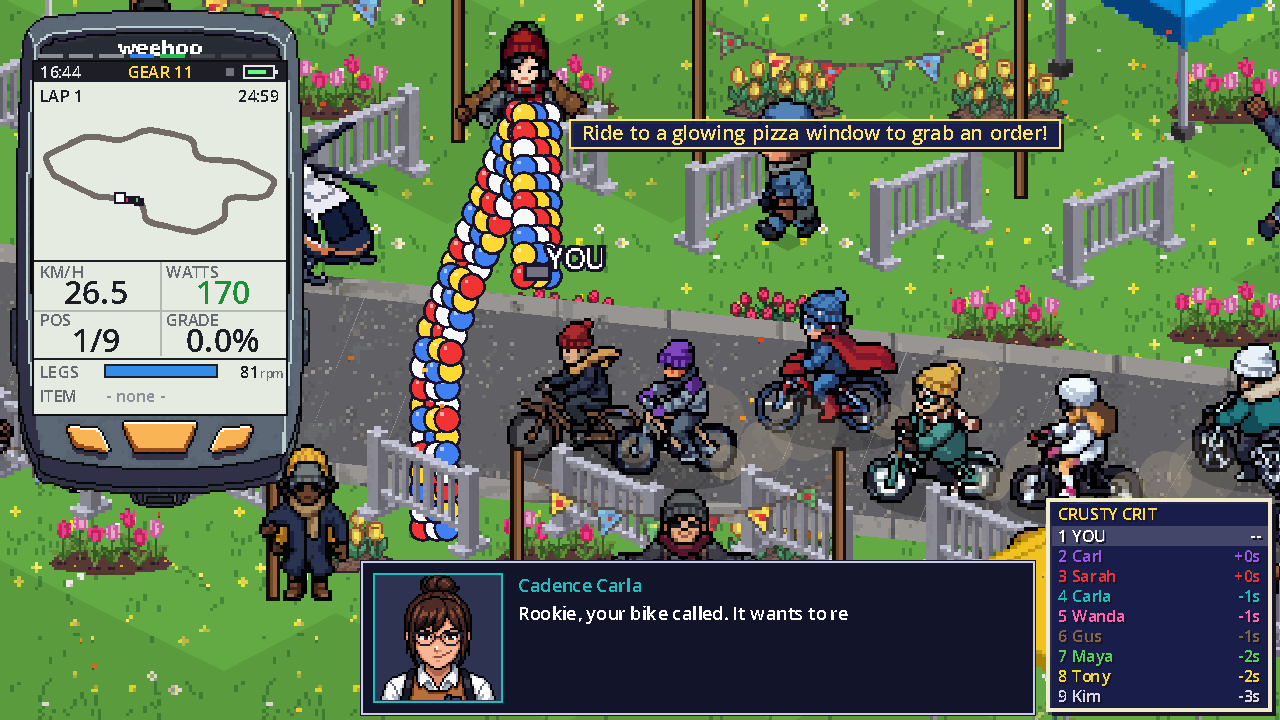
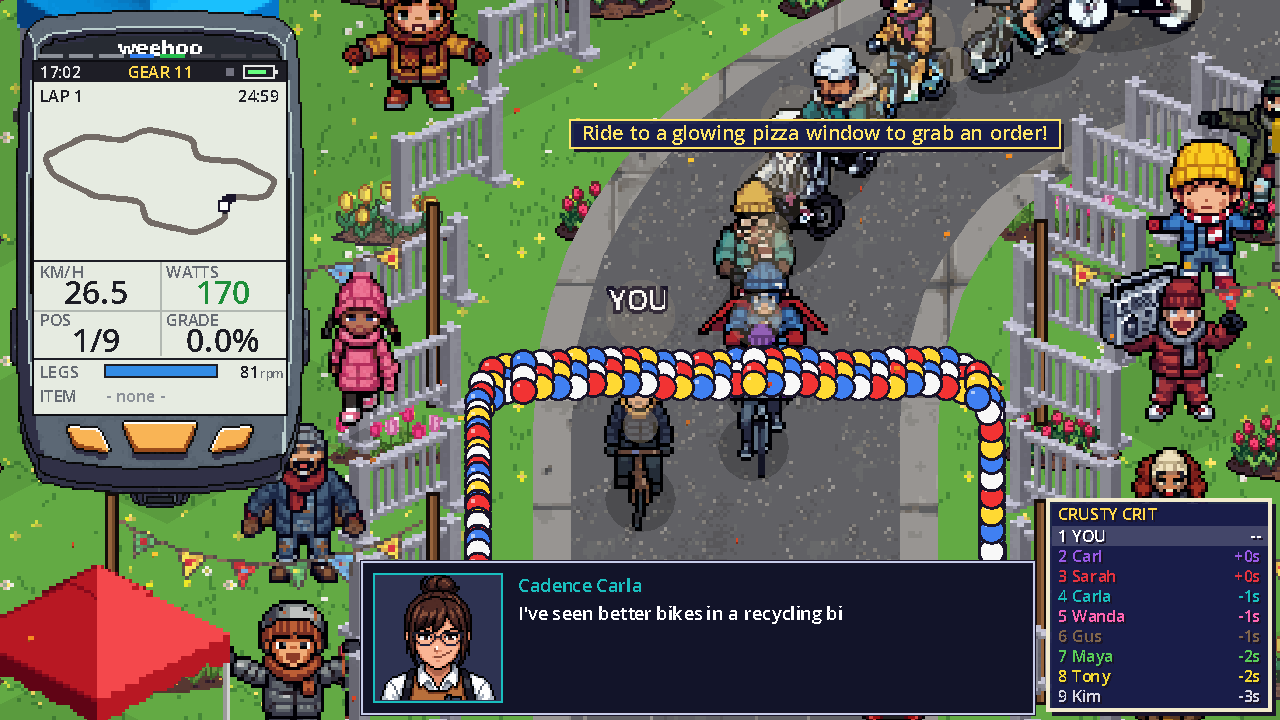
Crusty Crit: the balloon arch faces the camera and no longer folds over itself
The arch's rings were depth-sorted by a ground point worked out from their
screen position, so height leaked in and the near leg's upper rings sorted
behind the far leg: a crease. They're now laid out across the road and up,
each knowing the ground under it, with the three balloons side by side along
the road so the colours don't mirror where the garland turns down.

The start/finish also moves to the circuit's diagonal leg (same loop, same
direction, just starting elsewhere), which runs straight down the screen: on
the old leg the arch was seen edge-on and could only look like a tall loop.
The website's crit screenshot is retaken.

diff --git a/docs/index.html b/docs/index.html
@@ -532,7 +532,7 @@
     </div>
 
     <div class="course">
-      <figure><img src="img/course_crit.png" alt="The Crusty Crit: the bunch passing under a balloon arch on a park circuit lined with fans" width="1280" height="720" loading="lazy"></figure>
+      <figure><img src="img/course_crit.png" alt="The Crusty Crit: the bunch rolling under the balloon arch on a park circuit lined with fans" width="1280" height="720" loading="lazy"></figure>
       <div>
         <h3>Crusty Crit <span class="badge">COMING NEXT</span></h3>
         <p>A flat criterium round the park on the west edge of town, with half the village lining the barriers. Race as many laps as you can in 25 minutes, then everyone gets two more. All eight rivals sign on, so it's a big bunch, fast corners and a sprint under the balloon arch.</p>
